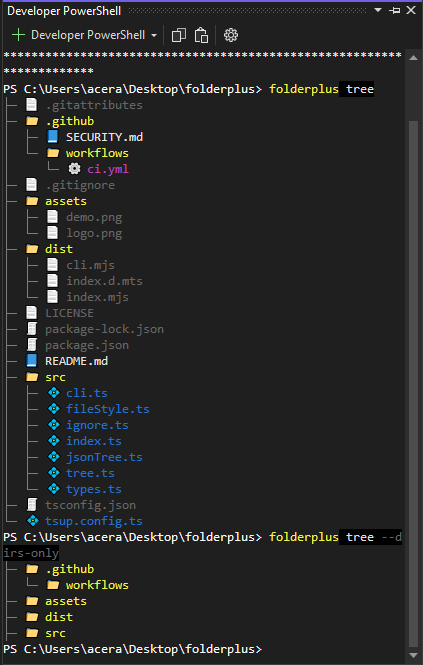
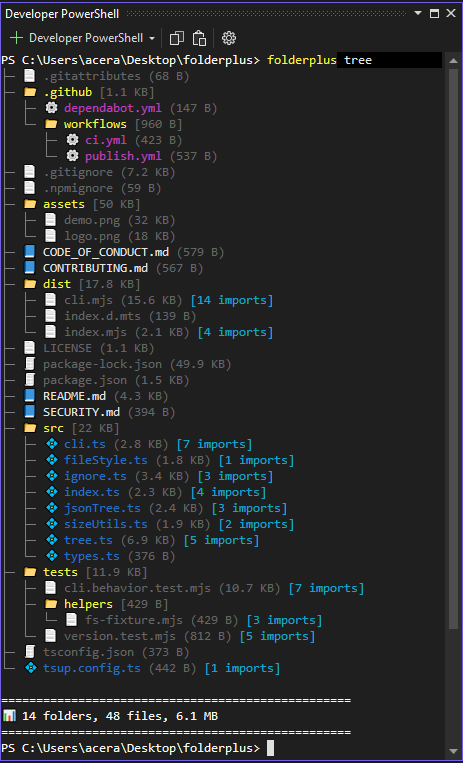
version patch and doc update

Changed region(s): [[0.0, 0.0, 1.0, 1.0], [0.6454, 0.1203, 0.8913, 0.1504]]

diff --git a/src/fileStyle.ts b/src/fileStyle.ts
@@ -26,6 +26,7 @@ export const FILE_STYLES: Record<string, FileStyle> = {
     // Systems
     c: { icon: "📀", color: chalk.blueBright },
     cpp: { icon: "💻", color: chalk.cyan },
+    cs: { icon: "🦠", color: chalk.blueBright },
     sh: { icon: "📜", color: chalk.greenBright },
     ruby: { icon: "💎", color: chalk.red },
 

diff --git a/README.md b/README.md
@@ -1,4 +1,4 @@
-# FolderPlus
+# FolderPlus
 
 Modern developer-friendly CLI tool to visualize project structures with filtering, JSON output, icons, and customizable ignore rules.
 
@@ -26,6 +26,8 @@ Modern developer-friendly CLI tool to visualize project structures with filterin
 # Preview
 
 ![FolderPlus Demo](./assets/demo.png)
+
+#### ⚡Update • Added project statistics including file/folder counts, import analysis, size calculations, and directory-level insights for both entire projects and individual folders.
 
 ---
 